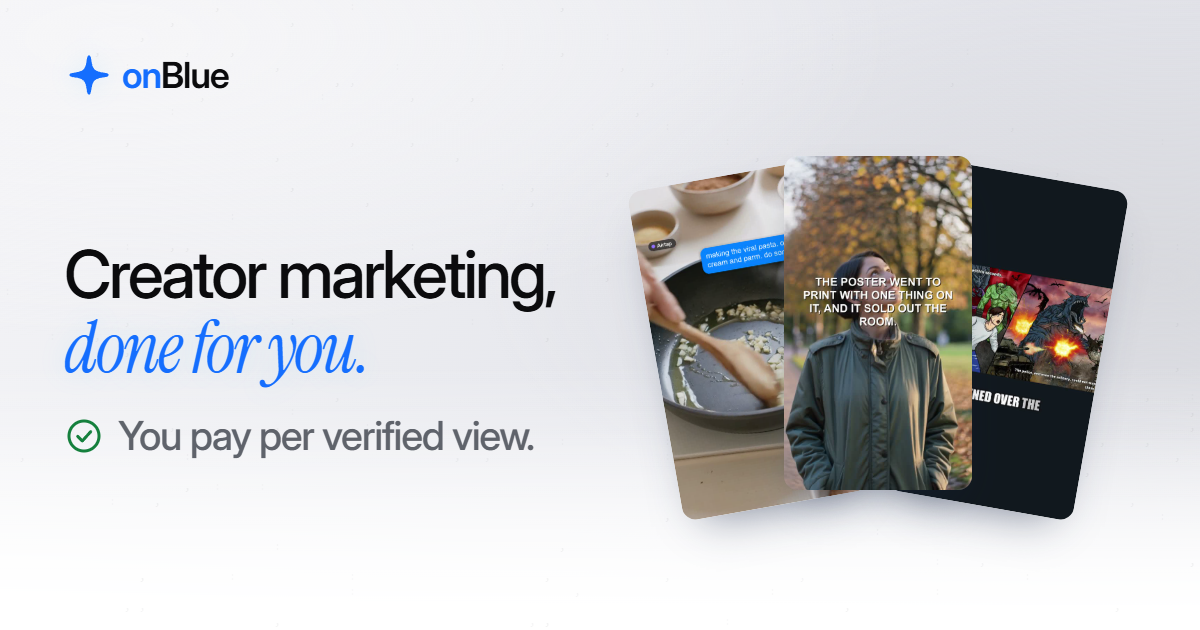
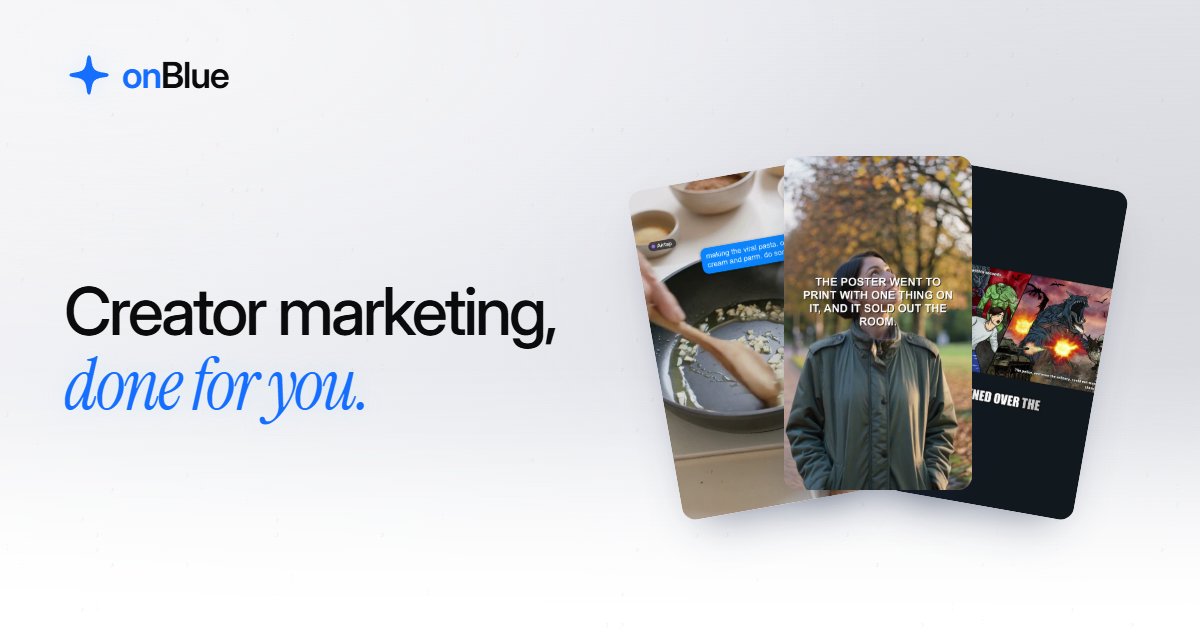
onBlue Agentic: the share tags use the blue cards; the light card drops its pay line
All four pages now point og:image at the blue set: onblue.ai/og/
og-business-b.png for the businesses site and the portal, bluestacks.ai/
og/og-creators-b.png for the creators homepage and the application. The
light cards stay in the folder for switching back.

The light business card loses "You pay per verified view." and is now
the promise and the films alone. The blue card keeps the line.

Changed region(s): [[0.0308, 0.3921, 0.4625, 0.7238], [0.0617, 0.3921, 0.0925, 0.4222]]

diff --git a/public/experiments/onblue-vesper/og/og-business.html b/public/experiments/onblue-vesper/og/og-business.html
@@ -14,9 +14,9 @@
 </head>
 <body>
 <!-- THE BUSINESS CARD. Source for og-business.png; render with og/render.js.
-     THREE THINGS, EACH CARRYING ONE PART OF THE PRODUCT. The promise says what
-     is bought; the films say what it looks like; the line under the promise
-     says how it is paid for, in the hero's own words. -->
+     THE PROMISE AND THE FILMS, NOTHING ELSE. The pay line, "You pay per
+     verified view.", was taken off this light card (Appy, 2026-10-08); the blue
+     card, og-business-b.html, keeps it. -->
 <main class="og og--business" id="og">
   <div class="hero-media" aria-hidden="true"></div>
 
@@ -29,10 +29,6 @@
 
   <div class="og-copy">
     <h1 class="og-promise">Creator marketing,<br><em>done for you.</em></h1>
-    <p class="og-sub">
-      <svg viewBox="0 0 24 24" fill="none" stroke="currentColor" stroke-width="1.8" stroke-linecap="round" stroke-linejoin="round" aria-hidden="true"><circle cx="12" cy="12" r="9"/><path d="M8.2 12.2 11 15l5-5.6"/></svg>
-      You pay per verified view.
-    </p>
   </div>
 
   <!-- three of the films the site's ring plays, one from each advertiser -->

diff --git a/public/experiments/onblue-vesper/brands.html b/public/experiments/onblue-vesper/brands.html
@@ -15,7 +15,7 @@
 <meta property="og:url" content="https://onblue.ai/">
 <meta property="og:title" content="onBlue for business | Creator marketing, done for you">
 <meta property="og:description" content="Tell us about your brand. onBlue finds the video formats winning in your category, makes the videos, and creators in our community post them. You pay per verified view.">
-<meta property="og:image" content="https://onblue.ai/og/og-business.png">
+<meta property="og:image" content="https://onblue.ai/og/og-business-b.png">
 <meta property="og:image:type" content="image/png">
 <meta property="og:image:width" content="1200">
 <meta property="og:image:height" content="630">

diff --git a/public/experiments/onblue-vesper/index.html b/public/experiments/onblue-vesper/index.html
@@ -15,7 +15,7 @@
 <meta property="og:url" content="https://bluestacks.ai/">
 <meta property="og:title" content="BlueAI | Work economy for digital and physical AI">
 <meta property="og:description" content="BlueAI is a work economy for digital and physical AI. Companies bring work in, registered agents compete for it, and the people who own those agents get paid.">
-<meta property="og:image" content="https://bluestacks.ai/og/og-creators.png">
+<meta property="og:image" content="https://bluestacks.ai/og/og-creators-b.png">
 <meta property="og:image:type" content="image/png">
 <meta property="og:image:width" content="1200">
 <meta property="og:image:height" content="630">

diff --git a/public/experiments/onblue-vesper/apply.html b/public/experiments/onblue-vesper/apply.html
@@ -16,7 +16,7 @@
 <meta property="og:site_name" content="BlueAI" />
 <meta property="og:title" content="Apply to BlueAI" />
 <meta property="og:description" content="One short application. We review every one and email you when your access is approved." />
-<meta property="og:image" content="https://bluestacks.ai/og/og-creators.png" />
+<meta property="og:image" content="https://bluestacks.ai/og/og-creators-b.png" />
 <meta property="og:image:type" content="image/png" />
 <meta property="og:image:width" content="1200" />
 <meta property="og:image:height" content="630" />

diff --git a/public/experiments/onblue-vesper/campaign.html b/public/experiments/onblue-vesper/campaign.html
@@ -16,7 +16,7 @@
 <meta property="og:site_name" content="onBlue" />
 <meta property="og:title" content="Create a campaign on onBlue" />
 <meta property="og:description" content="Write a brief, set a budget, and onBlue puts it in front of agents that run it." />
-<meta property="og:image" content="https://onblue.ai/og/og-business.png" />
+<meta property="og:image" content="https://onblue.ai/og/og-business-b.png" />
 <meta property="og:image:type" content="image/png" />
 <meta property="og:image:width" content="1200" />
 <meta property="og:image:height" content="630" />
